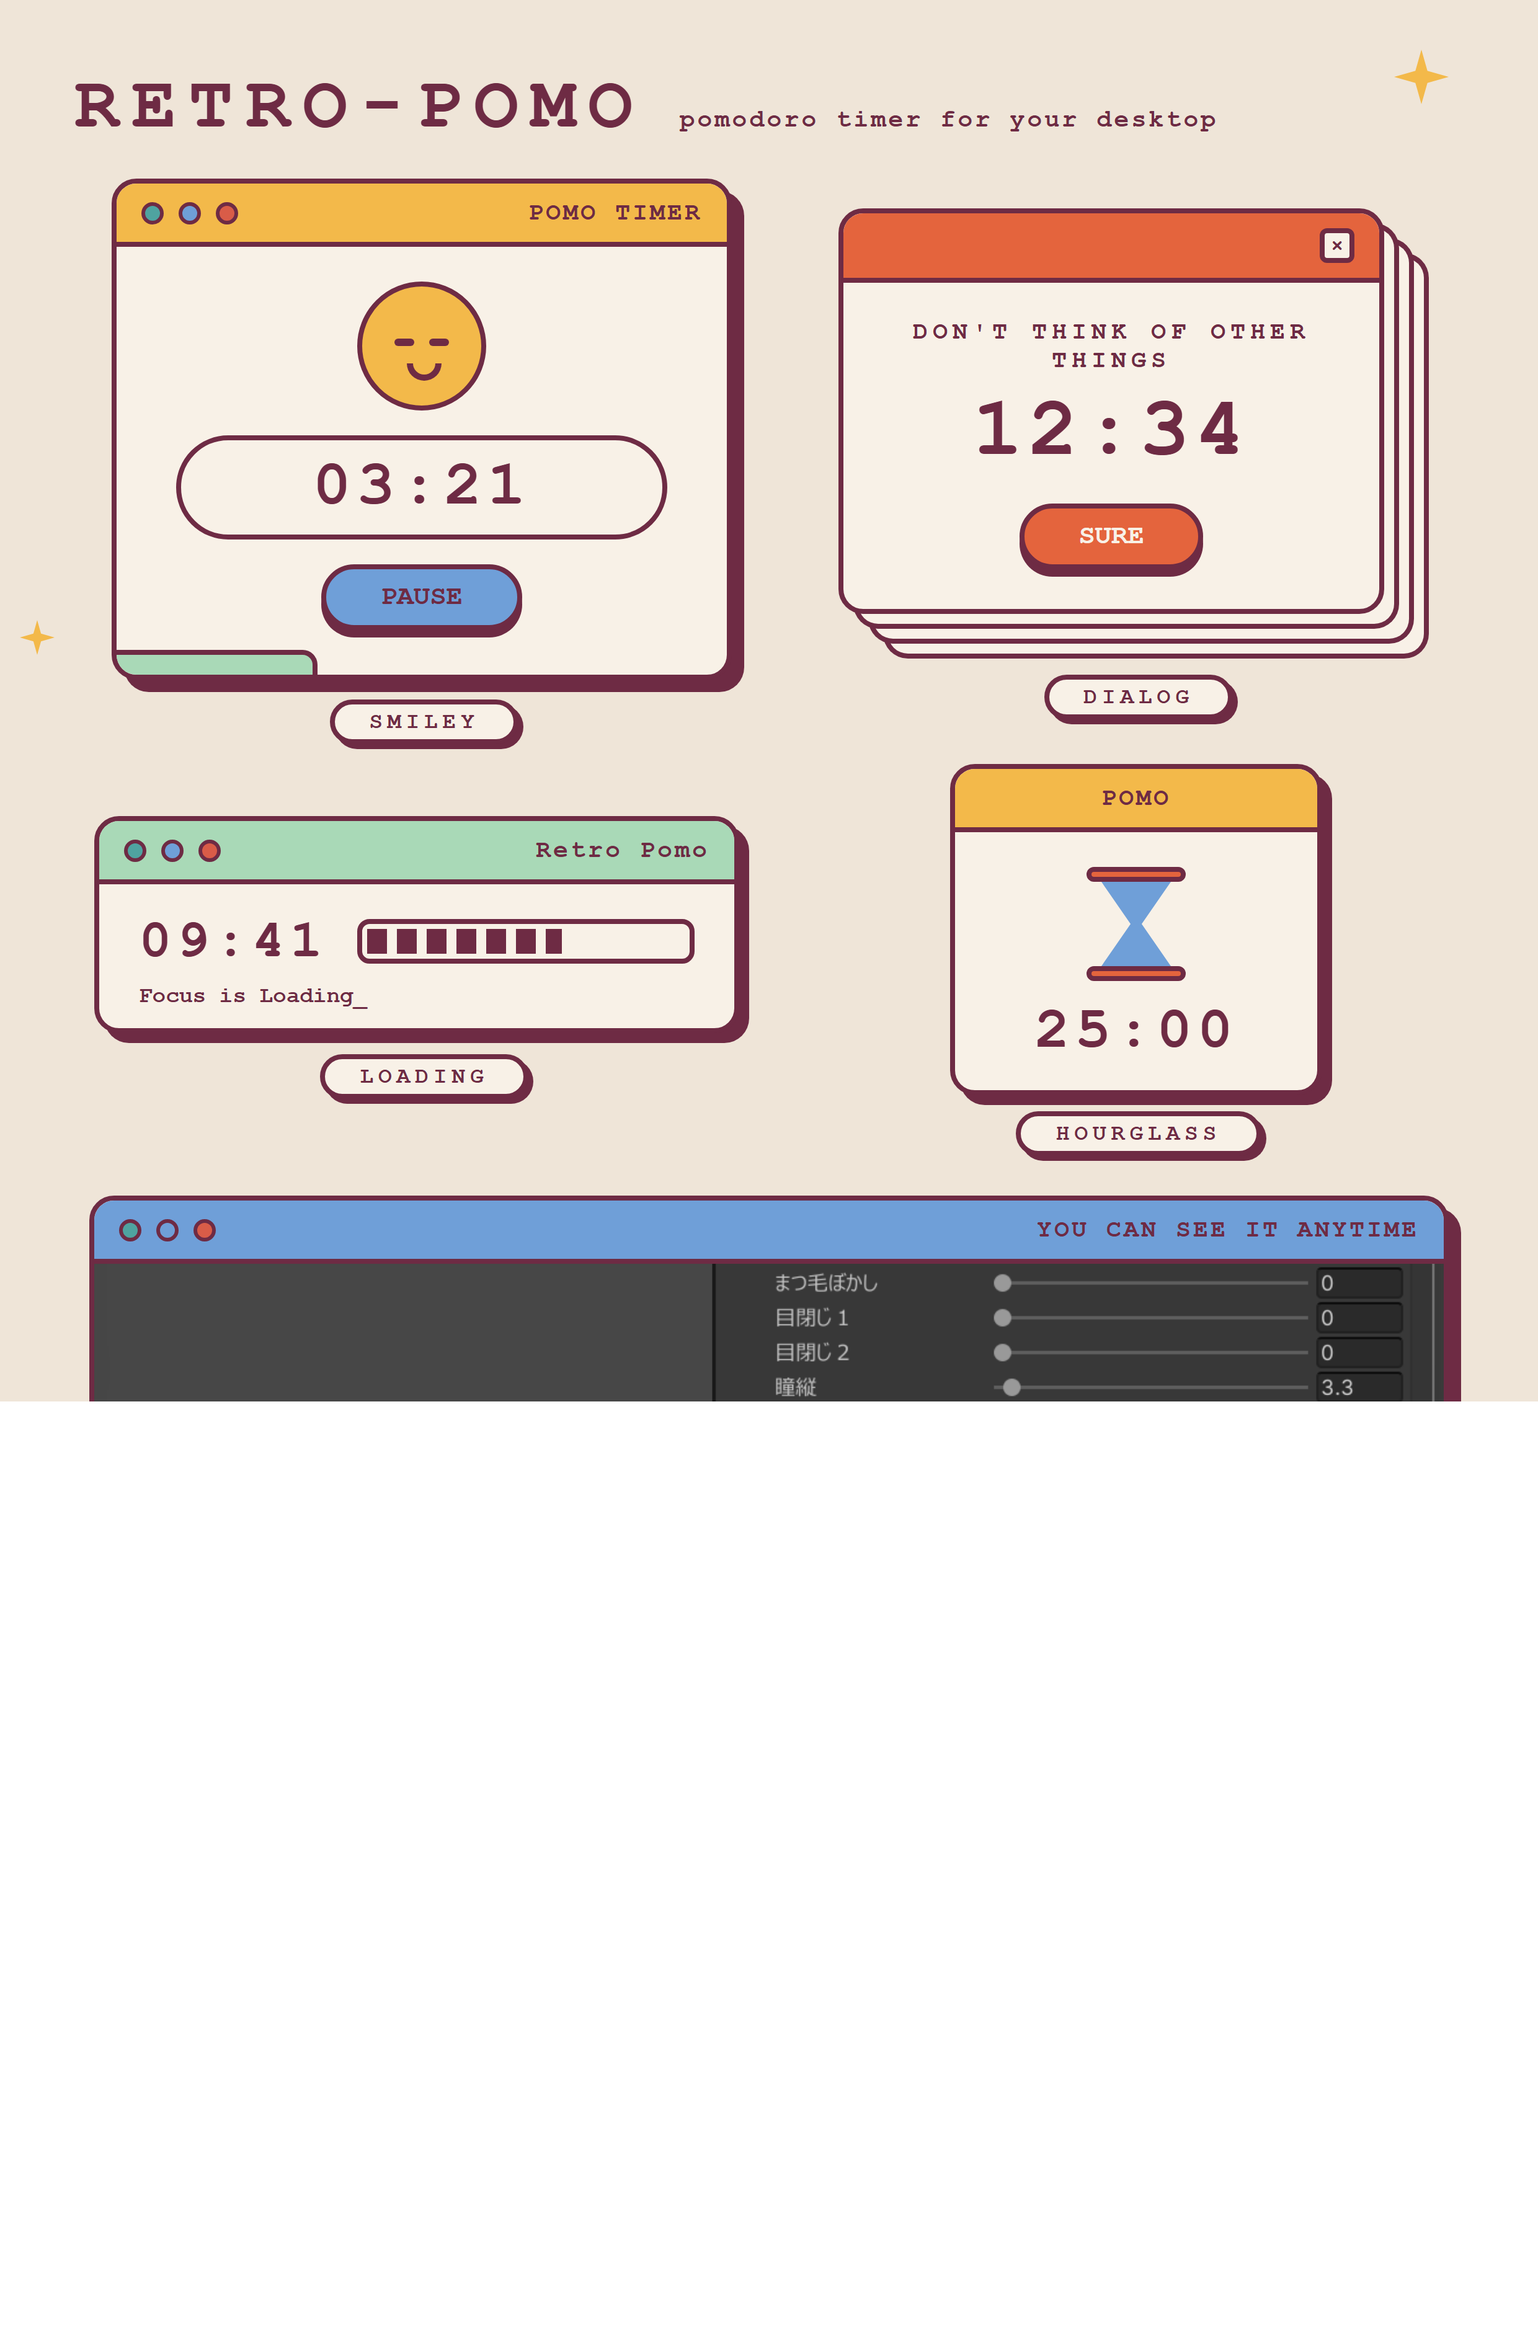
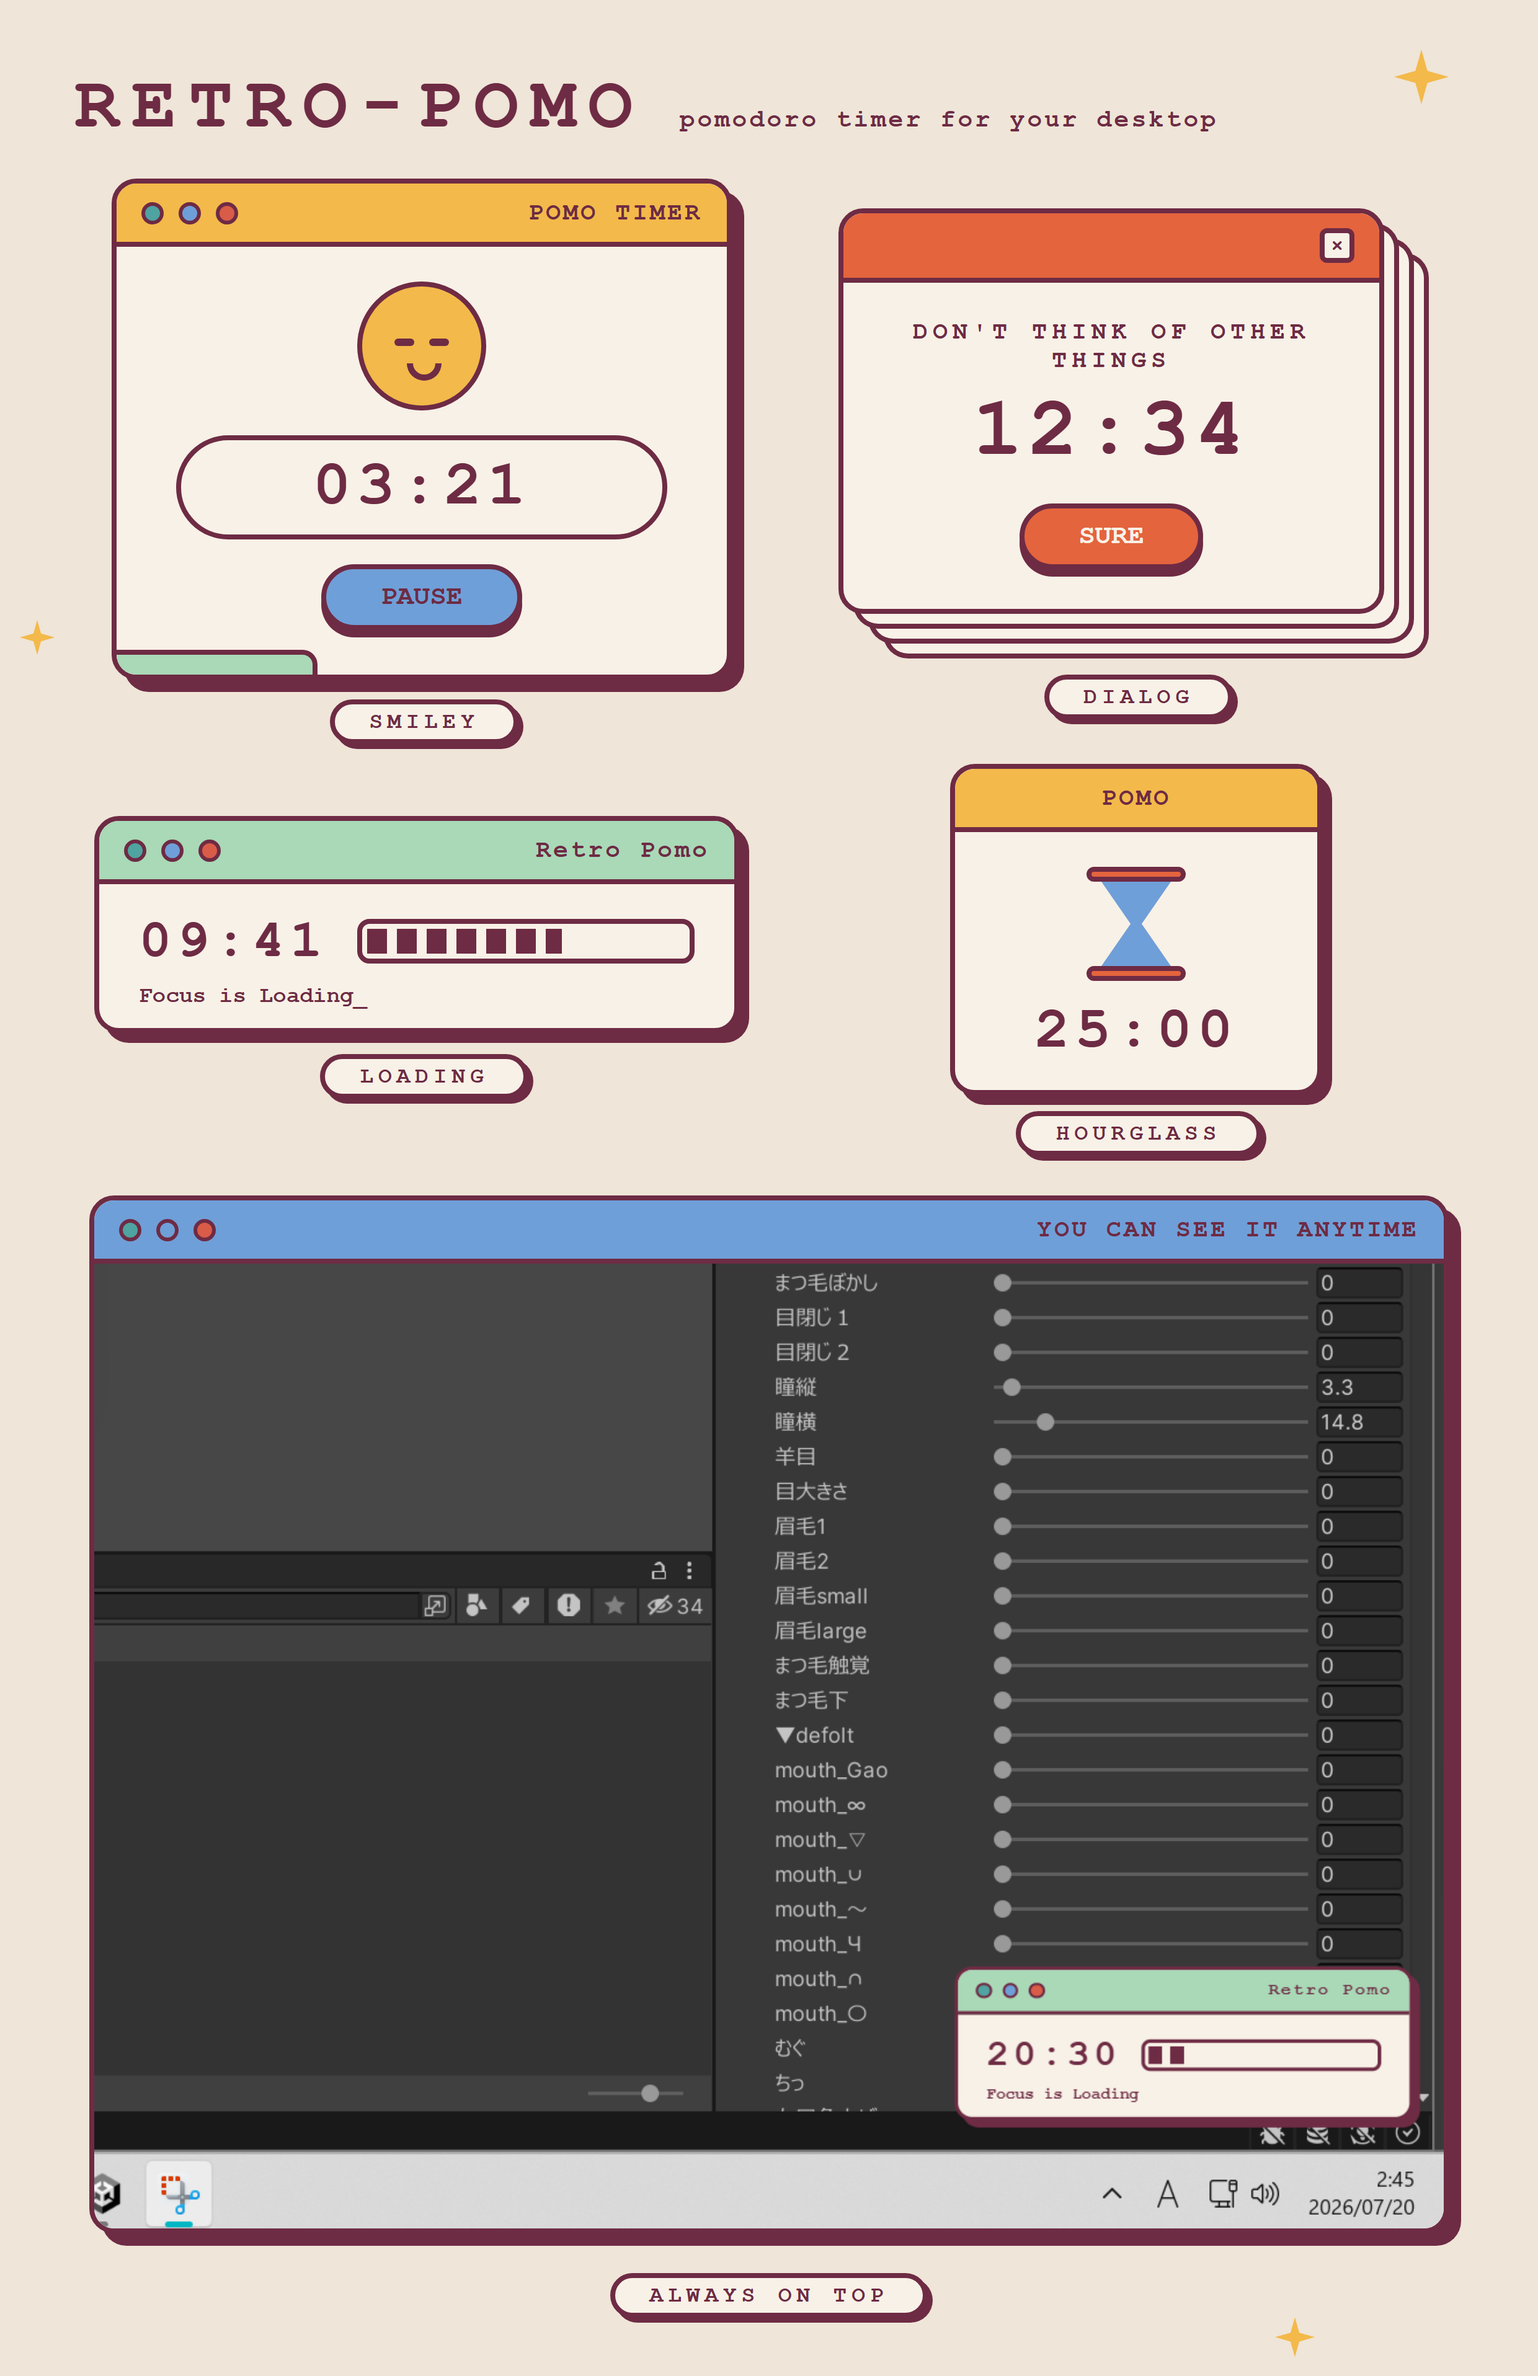
feat: 16:9 X-post promo variant (?promo=x) + wider gap between shot and tag

diff --git a/src/promo/PromoGrid.tsx b/src/promo/PromoGrid.tsx
@@ -9,7 +9,45 @@ import './promo.css';
 
 const noop = () => {};
 
-/** 宣伝画像用: 4スキン2x2+最前面訴求ショットの静止ビュー(ブラウザ ?promo=1 専用) */
+function SkinCells() {
+  return (
+    <>
+      <figure>
+        <SkinA phase="break" remainingSec={201} totalSec={300} isRunning onToggle={noop} />
+        <figcaption className="promo-tag">SMILEY</figcaption>
+      </figure>
+      <figure>
+        <SkinB phase="work" remainingSec={754} totalSec={1500} isRunning={false} onToggle={noop} />
+        <figcaption className="promo-tag">DIALOG</figcaption>
+      </figure>
+      <figure>
+        <SkinC phase="work" remainingSec={581} totalSec={1500} isRunning onToggle={noop} />
+        <figcaption className="promo-tag">LOADING</figcaption>
+      </figure>
+      <figure>
+        <SkinD phase="work" remainingSec={1500} totalSec={1500} isRunning={false} onToggle={noop} />
+        <figcaption className="promo-tag">HOURGLASS</figcaption>
+      </figure>
+    </>
+  );
+}
+
+function AlwaysOnTopShot() {
+  return (
+    <figure className="promo-shot">
+      <div className="retro-win shot-win">
+        <div className="titlebar">
+          <TitleDots />
+          <span className="titlebar-text">YOU CAN SEE IT ANYTIME</span>
+        </div>
+        <img src={shot} alt="Unityでの作業中も最前面に表示されるretro-pomo" />
+      </div>
+      <figcaption className="promo-tag">ALWAYS ON TOP</figcaption>
+    </figure>
+  );
+}
+
+/** 宣伝画像用(縦長・README/リリース向け): ブラウザ ?promo=1 */
 export function PromoGrid() {
   const innerRef = useRef<HTMLDivElement>(null);
   // scale(2)は親要素の高さに反映されないため、実高さを測ってキャンバス高さに伝える
@@ -34,33 +72,33 @@ export function PromoGrid() {
           <span className="promo-sub">pomodoro timer for your desktop</span>
         </div>
         <div className="promo-grid">
-          <figure>
-            <SkinA phase="break" remainingSec={201} totalSec={300} isRunning onToggle={noop} />
-            <figcaption className="promo-tag">SMILEY</figcaption>
-          </figure>
-          <figure>
-            <SkinB phase="work" remainingSec={754} totalSec={1500} isRunning={false} onToggle={noop} />
-            <figcaption className="promo-tag">DIALOG</figcaption>
-          </figure>
-          <figure>
-            <SkinC phase="work" remainingSec={581} totalSec={1500} isRunning onToggle={noop} />
-            <figcaption className="promo-tag">LOADING</figcaption>
-          </figure>
-          <figure>
-            <SkinD phase="work" remainingSec={1500} totalSec={1500} isRunning={false} onToggle={noop} />
-            <figcaption className="promo-tag">HOURGLASS</figcaption>
-          </figure>
+          <SkinCells />
         </div>
-        <figure className="promo-shot">
-          <div className="retro-win shot-win">
-            <div className="titlebar">
-              <TitleDots />
-              <span className="titlebar-text">YOU CAN SEE IT ANYTIME</span>
+        <AlwaysOnTopShot />
+      </div>
+    </div>
+  );
+}
+
+/** 宣伝画像用(16:9・X投稿向け、クロップされない): ブラウザ ?promo=x */
+export function PromoX() {
+  return (
+    <div className="promo promo-x">
+      <div className="promo-inner promo-x-inner">
+        <span className="promo-star" style={{ top: 12, right: 20, width: 18, height: 18 }} />
+        <span className="promo-star" style={{ bottom: 16, left: 10, width: 12, height: 12 }} />
+        <div className="promo-head">
+          <span className="promo-title">RETRO-POMO</span>
+          <span className="promo-sub">pomodoro timer for your desktop</span>
+        </div>
+        <div className="promo-x-main">
+          <div className="promo-x-gridwrap">
+            <div className="promo-grid promo-x-grid">
+              <SkinCells />
             </div>
-            <img src={shot} alt="Unityでの作業中も最前面に表示されるretro-pomo" />
           </div>
-          <figcaption className="promo-tag">ALWAYS ON TOP</figcaption>
-        </figure>
+          <AlwaysOnTopShot />
+        </div>
       </div>
     </div>
   );

diff --git a/src/App.tsx b/src/App.tsx
@@ -13,7 +13,7 @@ import { SkinB } from './skins/SkinB';
 import { SkinC } from './skins/SkinC';
 import { SkinD } from './skins/SkinD';
 import { SettingsView } from './settings/SettingsView';
-import { PromoGrid } from './promo/PromoGrid';
+import { PromoGrid, PromoX } from './promo/PromoGrid';
 
 export const skinComponents: Record<Skin, ComponentType<SkinProps>> = {
   A: SkinA, B: SkinB, C: SkinC, D: SkinD,
@@ -22,9 +22,10 @@ export const skinComponents: Record<Skin, ComponentType<SkinProps>> = {
 /** Tauri外(ブラウザでのUI確認)ではウィンドウ操作をスキップ */
 const inTauri = typeof window !== 'undefined' && '__TAURI_INTERNALS__' in window;
 
-/** 宣伝画像生成用: ブラウザで ?promo=1 */
+/** 宣伝画像生成用: ブラウザで ?promo=1 (縦長) / ?promo=x (X向け16:9) */
 const promoMode = !inTauri && typeof window !== 'undefined'
-  && new URLSearchParams(location.search).get('promo') === '1';
+  ? new URLSearchParams(location.search).get('promo')
+  : null;
 
 /** ブラウザ確認用: ?skin=B / ?view=settings で初期表示を切替(Tauri内では無視) */
 function devOverrides(): { skin?: Skin; view?: 'settings' } {
@@ -108,7 +109,8 @@ export default function App() {
     }
   }, [settings.skin, view]);
 
-  if (promoMode) return <PromoGrid />;
+  if (promoMode === 'x') return <PromoX />;
+  if (promoMode === '1') return <PromoGrid />;
 
   return (
     <div className="scale-root" style={{ transform: `scale(${liveScale ?? settings.scale})` }}>

diff --git a/src/promo/promo.css b/src/promo/promo.css
@@ -48,7 +48,7 @@
 /* 実使用スクリーンショット(最前面固定の訴求) */
 .promo-shot {
   margin: 16px auto 0;
-  display: flex; flex-direction: column; align-items: center; gap: 5px;
+  display: flex; flex-direction: column; align-items: center; gap: 16px;
 }
 .shot-win { width: 548px; box-shadow: 5px 5px 0 0 var(--maroon); }
 .shot-win .titlebar { background: var(--blue); }
@@ -62,3 +62,16 @@
   background: var(--yellow);
   clip-path: polygon(50% 0, 61% 39%, 100% 50%, 61% 61%, 50% 100%, 39% 61%, 0 50%, 39% 39%);
 }
+
+/* ---- X投稿用 16:9 (?promo=x) ---- */
+.promo-x { width: 1600px; height: 900px; }
+.promo-x-inner { width: 800px; height: 450px; padding: 16px 22px; }
+.promo-x .promo-title { font-size: 24px; letter-spacing: 4px; }
+.promo-x-main {
+  display: flex; gap: 14px; align-items: center; margin-top: 2px;
+}
+/* グリッドは0.8倍に縮小(transformはflowに効かないためwrapperで実寸を確保) */
+.promo-x-gridwrap { width: 438px; height: 330px; flex: none; }
+.promo-x-grid { transform: scale(0.8); transform-origin: top left; margin-top: 0; width: 548px; }
+.promo-x .promo-shot { flex: 1; margin: 0; gap: 10px; }
+.promo-x .shot-win { width: 100%; }
